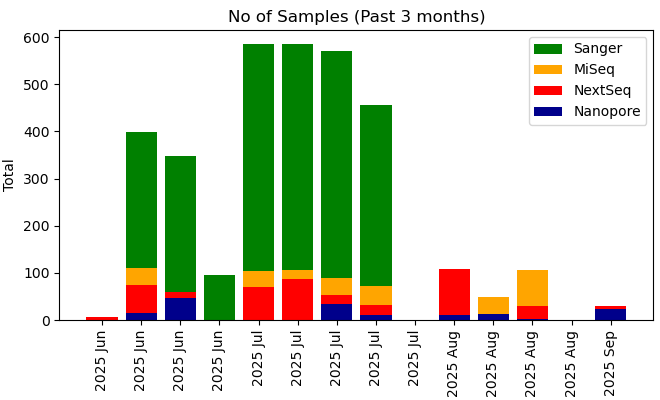
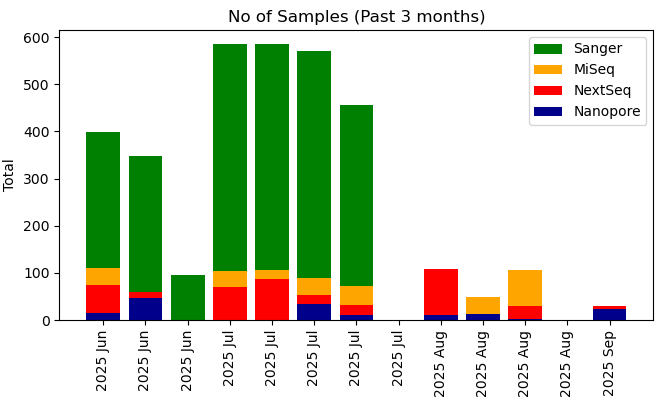
Your commit message here

diff --git a/krona/cgs.html b/krona/cgs.html
@@ -52,8 +52,8 @@ body {
   flex-direction: column;
 }
 </style>
-<H1>Genomics Facility Status: 07:00:08, 07/09/2025</H1>
-<marquee behavior="scroll" scrollamount="20" direction="left" bgcolor="lightgrey">ACAGGAGCAGGAAAGCGAGGGTATCCTACAAAGTCCAGCGTACCATAAACGCAAGCCTCAACGCAGCGACGAGCACGAGAGCGGTCAGTAGCAATCCAAACTTTGTTACTCGTCAGAAAATCGAAATCATCTTCGGTTAAATCCAAAACGGCAGAAGCCTGAATGAGCTTAATAGAGGCCAAAGCGGTCTGGAAACGTACGGATTGTTCTGTAACTTGAATCATGATTTCTTACCTTTTAGTGGTTGAAC</marquee>
+<H1>Genomics Facility Status: 07:00:16, 08/09/2025</H1>
+<marquee behavior="scroll" scrollamount="20" direction="left" bgcolor="lightgrey">CCAGCAAGGAAGCCAAGCTGGGAAAGGTCATGCGGCATCCGCTCGGCGCCAGTTTGAATATTAGACATAATTTATCCTCAAGTAAGGGGCCGAAGCCCCTGCAATTAAAATTGTTGACCACCTACATACCAAAGACGAGCGCCTTTACGCTTGCCTTTAGTACCTCGCAACGGCTGCGGACGACCAGGGCGAGCGCCAGAACGTTTTTTACCTTTAGACATTACATCACTCCTTCTGCACGTAATTTTTG</marquee>
 <TABLE BORDER=0><TR><TD><TABLE class="styled-table"><H3>GigaBases Sequenced</H3>
-<TR><TD><b>Platform</b></TD><TD><b>Week</b></TD><TD><b>Month</b></TD><TD><b>Year</b></TD><TD><b>Total</b></TD></TR><TR><TD>Illumina MiSeq</TD><TD>0.0</TD><TD>29.64</TD><TD>287.91</TD><TD>287.91</TD></TR><TR><TD>Illumina NextSeq</TD><TD>8.08</TD><TD>158.27</TD><TD>4435.7</TD><TD>4435.7</TD></TR><TR><TD>Nanopore PromethION</TD><TD>353.64</TD><TD>1123.09</TD><TD>5092.83</TD><TD>6986.56</TD></TR><TR><TD>Sanger</TD><TD>0.0</TD><TD>0.0</TD><TD>0.02</TD><TD>0.03</TD></TR></TABLE></TD><TD><IMG SRC="fig1.png"><IMG SRC="fig2.png"></TD></TR><TR><TD><H3>No. Samples (No. Experiments)</H3>
-<TABLE class="styled-table"><TR><TD><b>Platform</b></TD><TD><b>Week</b></TD><TD><b>Month</b></TD><TD><b>Year</b></TD><TD><b>Total</b></TD></TR><TR><TD>Illumina MiSeq</TD><TD>0 (1)</TD><TD>111 (6)</TD><TD>1397 (43)</TD><TD>1397 (43)</TD></TR><TR><TD>Illumina NextSeq</TD><TD>6 (1)</TD><TD>130 (5)</TD><TD>1359 (48)</TD><TD>1359 (48)</TD></TR><TR><TD>Nanopore PromethION</TD><TD>24 (2)</TD><TD>51 (15)</TD><TD>322 (130)</TD><TD>589 (194)</TD></TR><TR><TD>Sanger</TD><TD>0 (0)</TD><TD>0 (0)</TD><TD>20807 (20807)</TD><TD>28103 (28103)</TD></TR></TABLE></TD><TD><IMG SRC="fig4.png"></TD></TR></TABLE></HTML>
+<TR><TD><b>Platform</b></TD><TD><b>Week</b></TD><TD><b>Month</b></TD><TD><b>Year</b></TD><TD><b>Total</b></TD></TR><TR><TD>Illumina MiSeq</TD><TD>0.0</TD><TD>29.64</TD><TD>287.91</TD><TD>287.91</TD></TR><TR><TD>Illumina NextSeq</TD><TD>8.08</TD><TD>83.78</TD><TD>4435.7</TD><TD>4435.7</TD></TR><TR><TD>Nanopore PromethION</TD><TD>353.64</TD><TD>1075.38</TD><TD>5092.83</TD><TD>6986.56</TD></TR><TR><TD>Sanger</TD><TD>0.0</TD><TD>0.0</TD><TD>0.02</TD><TD>0.03</TD></TR></TABLE></TD><TD><IMG SRC="fig1.png"><IMG SRC="fig2.png"></TD></TR><TR><TD><H3>No. Samples (No. Experiments)</H3>
+<TABLE class="styled-table"><TR><TD><b>Platform</b></TD><TD><b>Week</b></TD><TD><b>Month</b></TD><TD><b>Year</b></TD><TD><b>Total</b></TD></TR><TR><TD>Illumina MiSeq</TD><TD>0 (1)</TD><TD>111 (6)</TD><TD>1397 (43)</TD><TD>1397 (43)</TD></TR><TR><TD>Illumina NextSeq</TD><TD>6 (1)</TD><TD>48 (4)</TD><TD>1359 (48)</TD><TD>1359 (48)</TD></TR><TR><TD>Nanopore PromethION</TD><TD>24 (2)</TD><TD>46 (12)</TD><TD>322 (130)</TD><TD>589 (194)</TD></TR><TR><TD>Sanger</TD><TD>0 (0)</TD><TD>0 (0)</TD><TD>20615 (20615)</TD><TD>28103 (28103)</TD></TR></TABLE></TD><TD><IMG SRC="fig4.png"></TD></TR></TABLE></HTML>
